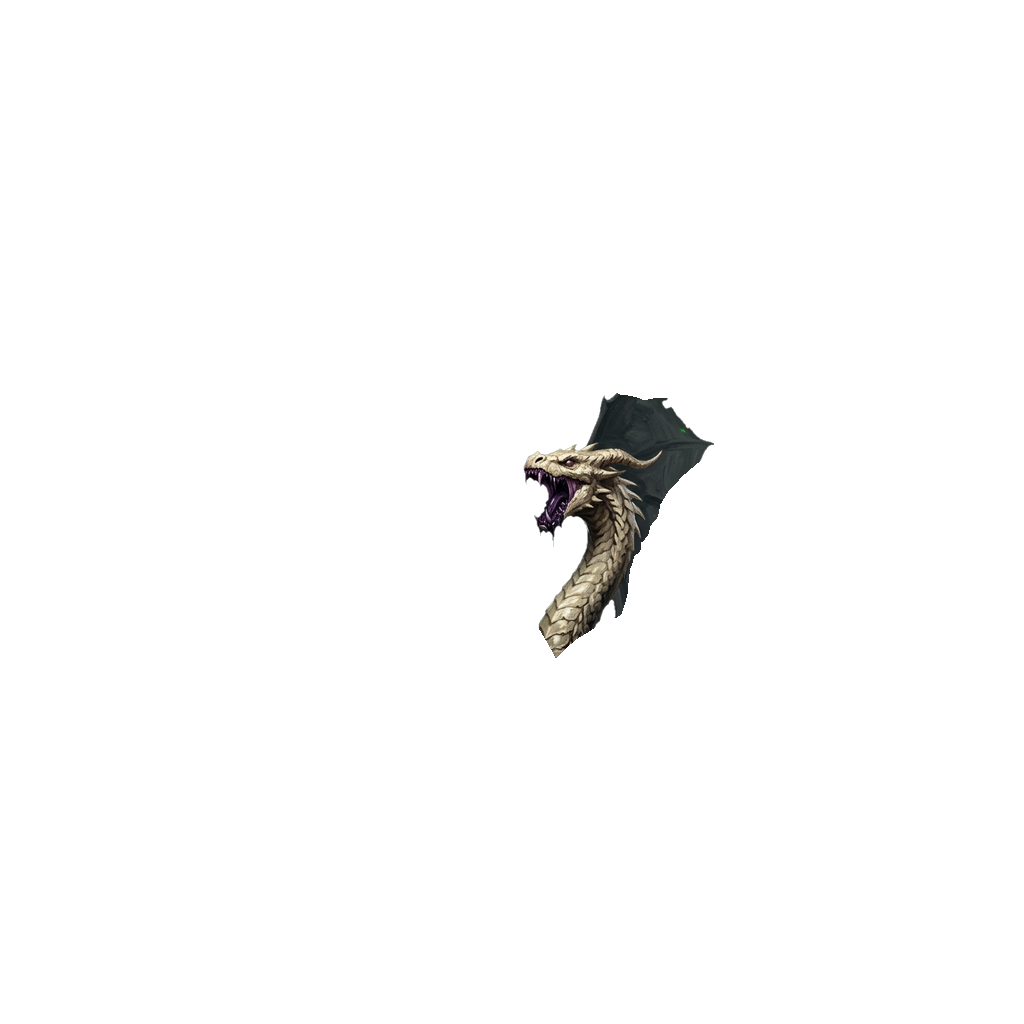
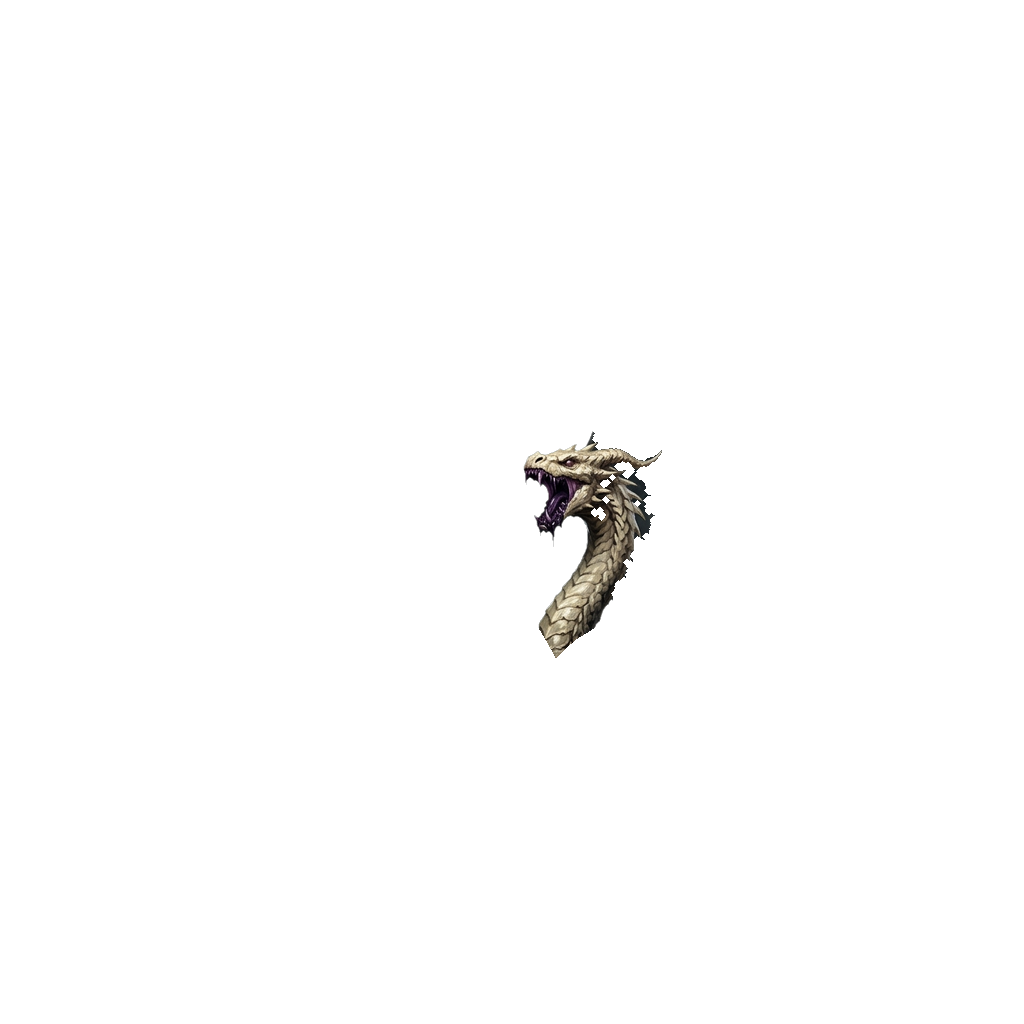
Gorynych's heads no longer take the wing behind their necks; tools/foe_sheet.py sheets a foe's every picture (rest, head over body with its joint and anything missing, corpses, poses) to check by eye

Changed region(s): [[0.5625, 0.375, 0.6875, 0.5312], [0.5938, 0.5312, 0.625, 0.5938], [0.5625, 0.4688, 0.5938, 0.5]]

diff --git a/tools/foe_sheet.py b/tools/foe_sheet.py
@@ -1,0 +1,90 @@
+"""Sheets a foe's every picture to look at: is it all there and does it all fit together?
+
+    python tools/foe_sheet.py <id> [<id> ...]        # target/foe_<id>.png each
+    python tools/foe_sheet.py --all <file>           # the ids listed in a file, one per line
+
+One row per foe: the resting picture; head over body with the rig's head joint marked (red dot,
+read from crates/game/src/battle/rig.rs) and anything the parts miss of the resting picture in
+magenta; the head alone; both corpses; every pose (`_strike`, `_hurt`, `_guard`, `_cast` and any
+`_<move id>`). On grey, so a black figure shows and a green fringe stands out.
+"""
+import glob
+import os
+import re
+import sys
+
+import numpy as np
+from PIL import Image, ImageDraw
+
+ROOT = os.path.join(os.path.dirname(os.path.abspath(__file__)), "..")
+EN = os.path.join(ROOT, "assets", "enemies")
+T = 220
+
+
+def joints():
+    text = open(os.path.join(ROOT, "crates", "game", "src", "battle", "rig.rs"), encoding="utf-8").read()
+    return {m.group(1): (float(m.group(2)), float(m.group(3))) for m in re.finditer(r'\("enemies/([a-z_]+)", &\[\(Part::Head, Vec2::new\(([0-9.]+), ([0-9.]+)\)', text)}
+
+
+def tile(im, label, mark=None):
+    bg = Image.new("RGBA", im.size, (90, 90, 90, 255))
+    bg.alpha_composite(im.convert("RGBA"))
+    t = bg.convert("RGB")
+    if mark:
+        d = ImageDraw.Draw(t)
+        x, y = mark[0] * t.width, mark[1] * t.height
+        r = max(6, t.width // 60)
+        d.ellipse((x - r, y - r, x + r, y + r), fill=(255, 0, 0))
+    t.thumbnail((T, T))
+    out = Image.new("RGB", (T, T + 16), (40, 40, 40))
+    out.paste(t, ((T - t.width) // 2, 16 + (T - t.height) // 2))
+    ImageDraw.Draw(out).text((3, 2), label, fill=(255, 230, 120))
+    return out
+
+
+def sheet(foe, J):
+    path = lambda s: os.path.join(EN, f"{foe}{s}-gemini.png")
+    if not os.path.exists(path("")):
+        return None
+    tiles = [tile(Image.open(path("")), foe)]
+    if os.path.exists(path("_body")) and os.path.exists(path("_head")):
+        rest = np.array(Image.open(path("")).convert("RGBA"))
+        body, head = Image.open(path("_body")).convert("RGBA"), Image.open(path("_head")).convert("RGBA")
+        both = body.copy()
+        both.alpha_composite(head)
+        held = np.array(both)[..., 3] > 24
+        for part in ("_arm", "_shield"):
+            if os.path.exists(path(part)):
+                held |= np.array(Image.open(path(part)).convert("RGBA"))[..., 3] > 24
+        a = np.array(both)
+        if a.shape == rest.shape:
+            miss = (rest[..., 3] > 24) & ~held
+            a[miss] = [255, 0, 255, 255]
+        tiles.append(tile(Image.fromarray(a), "head+body", J.get(foe)))
+        tiles.append(tile(head, "head"))
+    for s in ("_dead", "_dead_headless"):
+        if os.path.exists(path(s)):
+            tiles.append(tile(Image.open(path(s)), s[1:]))
+    for p in sorted(glob.glob(path("_*"))):
+        s = os.path.basename(p)[len(foe):-len("-gemini.png")]
+        if s in ("_body", "_head", "_dead", "_dead_headless", "_arm", "_shield") or s.startswith("_ground") and foe != "kot_bayun":
+            continue
+        tiles.append(tile(Image.open(p), s[1:]))
+    out = Image.new("RGB", (T * len(tiles), T + 16), (40, 40, 40))
+    for i, t in enumerate(tiles):
+        out.paste(t, (i * T, 0))
+    return out
+
+
+def main():
+    ids = open(sys.argv[2]).read().split() if sys.argv[1] == "--all" else sys.argv[1:]
+    J = joints()
+    for foe in ids:
+        s = sheet(foe, J)
+        if s:
+            s.save(os.path.join(ROOT, "target", f"foe_{foe}.png"))
+    print(len(ids))
+
+
+if __name__ == "__main__":
+    main()

diff --git a/tools/gorynych_in.py b/tools/gorynych_in.py
@@ -85,7 +85,10 @@ def main():
         part = np.zeros_like(R)
         stump = red & (owner == i) & (dist[i] < 260)
         reach = dist[i][stump].max() + 8 if stump.any() else 60
-        sel = whole & (owner == i) & (dist[i] <= reach)
+        # never what the body itself holds (a wing behind the necks), save the stump it covers
+        same = np.abs(R[..., :3].astype(int) - B[..., :3].astype(int)).sum(axis=2) < 60
+        body_own = ndimage.binary_opening(held & same & ~ndimage.binary_dilation(red, iterations=6), iterations=3)
+        sel = whole & (owner == i) & (dist[i] <= reach) & ~body_own
         part[sel] = R[sel]
         out[f"gorynych_{name}_head"] = Image.fromarray(part)
         # the neck joint: where this piece touches the body
@@ -114,7 +117,7 @@ def main():
                 if j != i:
                     others |= np.array(out[f"gorynych_{n2}_head"])[..., 3] > 24
             # another head's neck stays out only where nothing moved: a lunge may cross it
-            keep = there & ((own & ~others) | moved)
+            keep = there & ((own & ~others) | (moved & ~(held & ~own & (np.abs(P[..., :3].astype(int) - B[..., :3].astype(int)).sum(axis=2) < 70))))
             lab, n = ndimage.label(keep)
             if n > 1:
                 # the pieces of any size: specks of repaint elsewhere drop out
